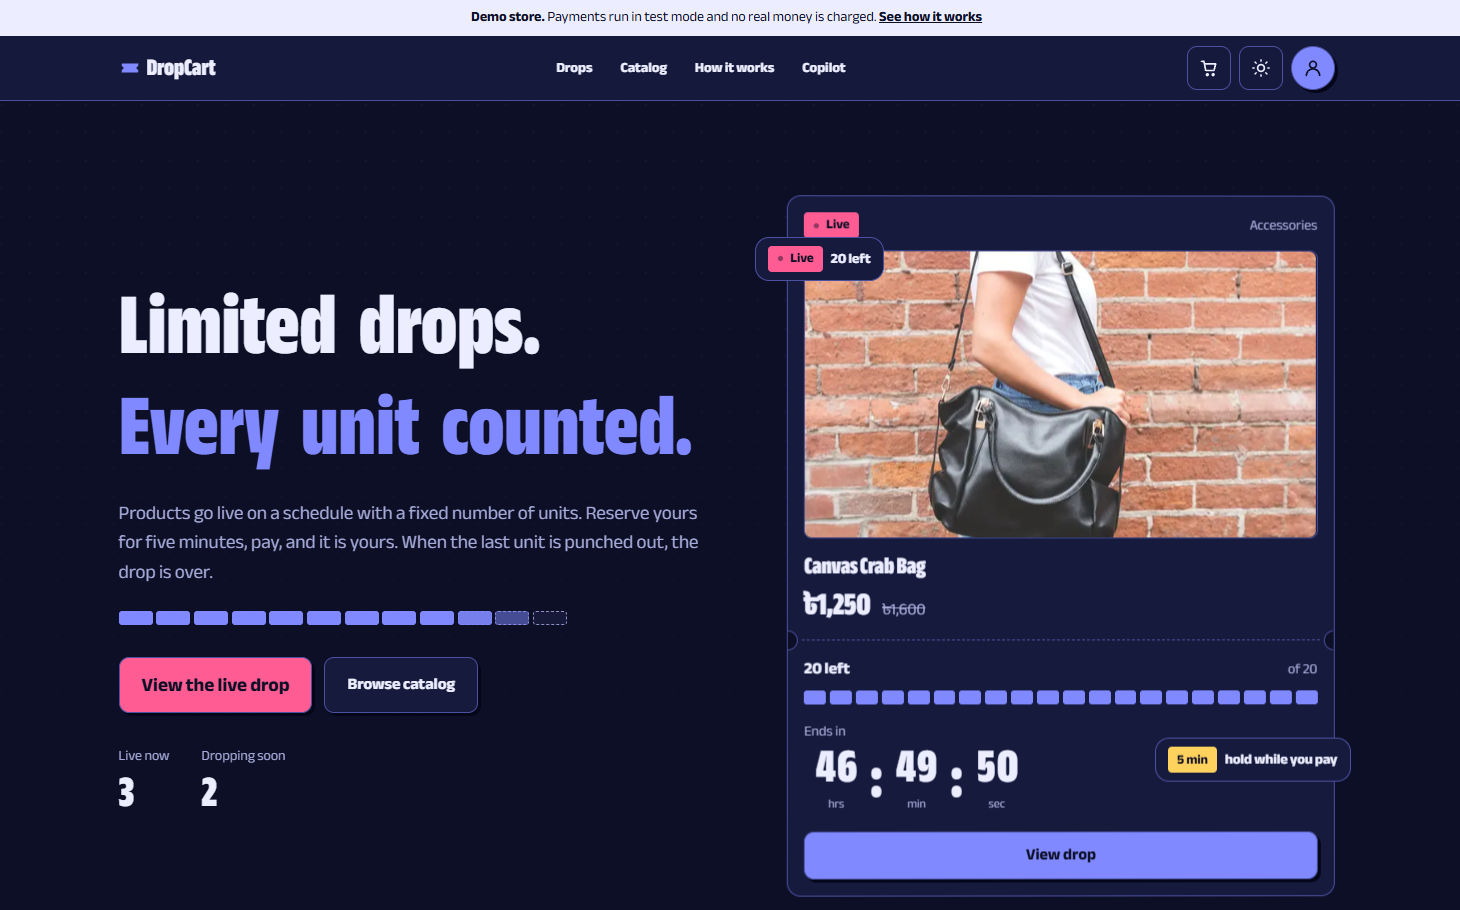
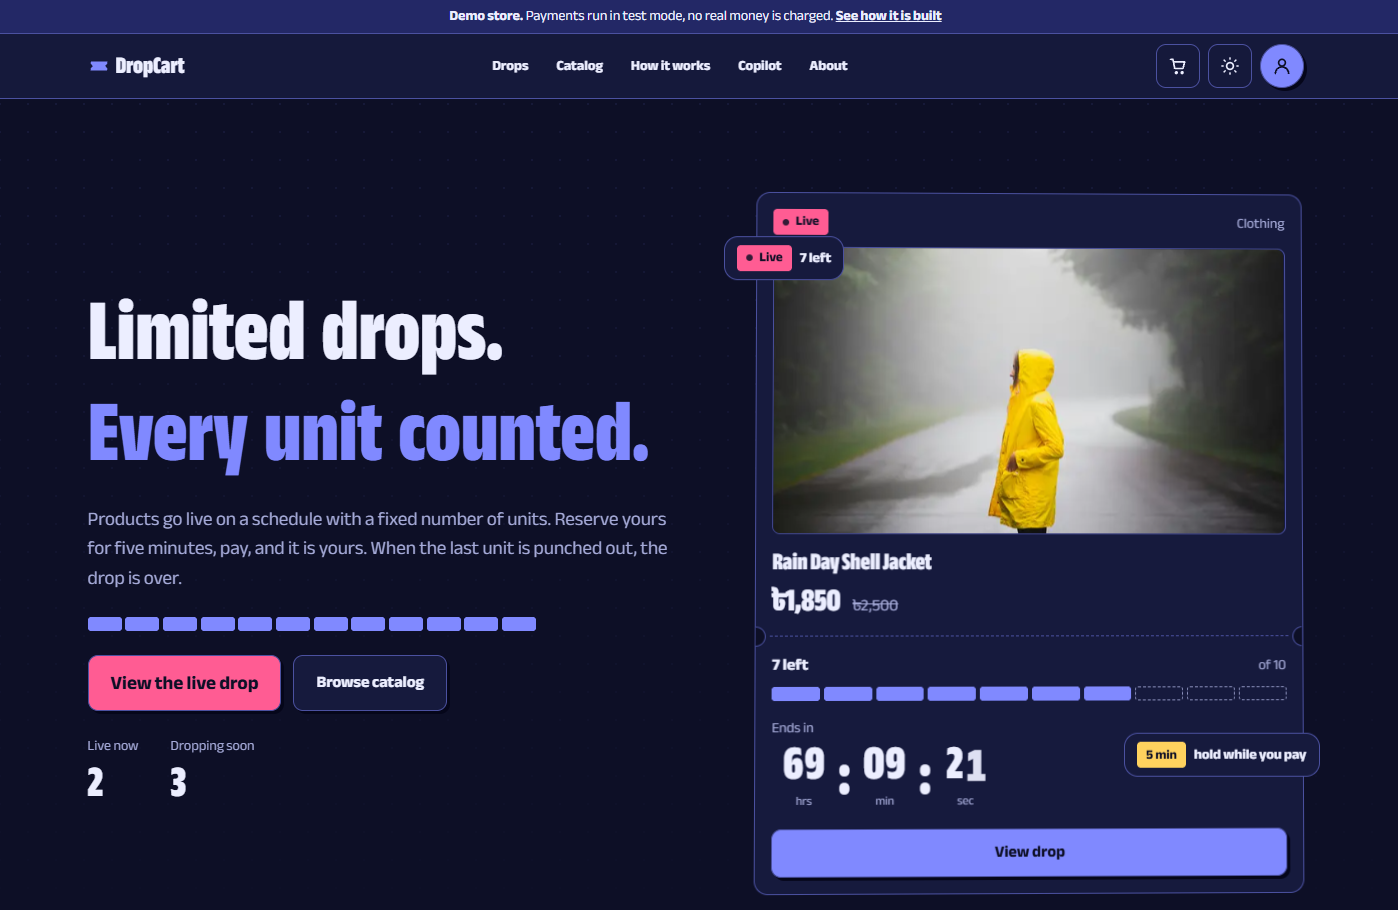
docs: update README with detailed usage instructions and highlights

diff --git a/README.md b/README.md
@@ -1,27 +1,45 @@
 # DropCart
 
-The web app for **DropCart**, a limited-drop store where products go on sale in scheduled, stock-limited drops. Each unit is counted, held for five minutes while you pay, and released back to the drop if you do not.
-
 ![CI](https://github.com/tawchifulislam/dropcart-client/actions/workflows/ci.yml/badge.svg)
 
-- Live demo: <https://dropcart-client.vercel.app>
-- API repository: [dropcart-server](https://github.com/tawchifulislam/dropcart-server)
+**A limited-drop store where every unit is counted.** Products go on sale in scheduled drops with a fixed number of units. Reserve one while the drop is live, pay within five minutes, and if you do not, the unit goes back to the drop for the next person.
+
+- **Live demo:** <https://dropcart-client.vercel.app> (no sign-up needed, choose "Continue as a guest")
+- **API repository:** [dropcart-server](https://github.com/tawchifulislam/dropcart-server), with the concurrency design, test results and architecture notes
+- **How it is built, in the app:** <https://dropcart-client.vercel.app/about>
 
 ![DropCart: live drops with stock cells and hold timers](public/docs/dropcart.png)
 
-## What you can do
+> The demo runs on free hosting. If the first load is slow, the API was asleep and needs about a minute to wake up.
 
-- Browse the catalog at any time, and see live and upcoming drops with real-time stock and countdowns.
-- Reserve a unit while a drop is live, then pay before the hold timer runs out.
-- Ask the **Copilot** for products within a budget. It searches the real catalog and fills your cart.
-- Follow your reservations and receipts from your account page.
-- As an admin, manage your own products and drops and watch live stock and revenue.
+## Try it in 60 seconds
+
+1. Open the demo and choose **Continue as a guest**. A temporary account is created and deleted after a day.
+2. Open a **live drop** and press **Reserve**. One unit is taken from the stock and held for five minutes while a timer runs.
+3. Press **Pay** and use the test card `4242 4242 4242 4242`, any future date, any CVC. No real money is charged.
+4. Open the **Copilot** and ask for a gift under 2000 taka. Then ask for something that does not exist and watch it say so.
+5. Open **My account** to see your reservation history and receipt.
+
+The admin dashboard needs a privileged account, so it is shown in the screenshots rather than opened to the public. Credentials for a limited admin account can be shared on request.
+
+## Highlights
+
+- **A UI built around one idea:** a torn ticket. Drops are tickets, units are cells that punch out, buttons press down like stamps. It is a custom design system, not a component kit.
+- **Live, honest numbers.** Stock and timers update while you watch. Hold timers use the remaining time sent by the server, so a wrong device clock does not matter.
+- **A route map** on `/how-it-works` that draws itself as you scroll and shows what happens to a unit from schedule to receipt.
+- **An AI copilot** that searches the real catalog, shows product cards from database data and adds items to your cart. It never invents a product.
+- **Admin dashboard** with live stock, a revenue chart, product and drop management, and role management. Admins only see their own data.
+- **Production details:** light and dark themes without a flash, skeletons, error and 404 pages, a styled confirmation dialog, toasts for minor confirmations, social preview image and favicon, sitemap and structured data.
 
 ## Screens
+
+<details>
+<summary><strong>All routes</strong></summary>
 
 | Route | Description |
 | --- | --- |
 | `/` | Landing page: animated hero, ticker, live drops, how it works, copilot, categories, FAQ |
+| `/about` | Case study: architecture, engineering decisions, how it is verified |
 | `/drops`, `/drops/[id]` | Live and upcoming drops, drop page with live stock, hold timer and Reserve |
 | `/products`, `/products/[slug]` | Catalog with live search, filters, pagination, product detail |
 | `/how-it-works` | Animated route map of a unit, and FAQ |
@@ -32,16 +50,16 @@ The web app for **DropCart**, a limited-drop store where products go on sale in 
 | `/admin` | Dashboard with live stock and a revenue chart |
 | `/admin/products`, `/admin/drops` | Product and drop management |
 | `/admin/users` | Role management (superadmin only) |
-| `/login`, `/register` | Authentication |
+| `/login`, `/register` | Authentication, with guest access in demo mode |
+
+</details>
 
 ## Design system
 
-The look is built around one idea: a torn ticket. Every drop is a ticket, every unit is a cell, and a purchase punches one out.
-
 - **Tokens.** All colors, radii, shadows and motion live as CSS variables in `src/app/globals.css` and are exposed to Tailwind through `@theme`. Light and dark themes swap the variables, so components never hard-code a color.
 - **Motifs.** Perforated dividers with half-circle notches (`.ticket`), stock cells that punch out (`.cells`), hard offset shadows that collapse on press (`.btn`), a stamped "Sold out" badge.
-- **Type.** One variable family (Anek Bangla, Latin glyphs) used in a narrow, heavy cut for display text and a regular cut for body copy.
-- **Theming.** The theme is set before first paint from `localStorage` or the system preference, so there is no flash. A toggle sits in the header.
+- **Type.** One variable family (Anek Bangla, Latin glyphs) in a narrow, heavy cut for display text and a regular cut for body copy.
+- **Theming.** The theme is set before first paint from `localStorage` or the system preference, so there is no flash.
 - **Motion.** Framer Motion for scroll reveals, the route map and the hero. Everything respects `prefers-reduced-motion`.
 
 ## Architecture
@@ -54,14 +72,15 @@ flowchart LR
   Web -->|server components fetch| API
 ```
 
-- **Server components** fetch public data (catalog, drops) directly from the API with `cache: "no-store"` because drop status depends on the clock.
-- **Client components** call `/api/*`. A rewrite in `next.config.ts` forwards that path to the API, so the session cookie belongs to the web app's own domain. No CORS and no third-party cookie issues.
+- **Server components** fetch public data (catalog, drops) directly from the API with `cache: "no-store"`, because drop status depends on the clock.
+- **Client components** call `/api/*`. A rewrite in `next.config.ts` forwards that path to the API, so the session cookie belongs to the web app's own domain. No CORS and no third-party cookie problems.
 - **Auth state** lives in `AuthProvider`. Admin pages check the role in the UI for convenience, and the API enforces it again on every request.
-- **Live data** (stock, hold timers) is polled every few seconds while the tab is visible. Timers use the remaining time sent by the server, so a wrong device clock does not matter.
+- **Live data** (stock, hold timers) is polled every few seconds while the tab is visible.
+- **Security headers** (`nosniff`, frame denial, referrer and permissions policies) are set in `next.config.ts`.
 
 ## Tech stack
 
-Next.js 16 (App Router), React 19, TypeScript, Tailwind CSS 4, Framer Motion, Recharts.
+Next.js 16 (App Router), React 19, TypeScript, Tailwind CSS 4, Framer Motion, Recharts. Deployed on Vercel, with GitHub Actions running lint, type check and a production build on every push.
 
 ## Getting started
 
@@ -77,16 +96,20 @@ npm run dev
 
 Open <http://localhost:3000>.
 
-## Environment variables
+<details>
+<summary><strong>Environment variables</strong></summary>
 
 | Name | Required | Description |
 | --- | --- | --- |
 | `API_URL` | yes | Base URL of the API, without a trailing slash. Read at build time for the `/api/*` rewrite, so changing it needs a redeploy |
 | `NEXT_PUBLIC_SITE_URL` | recommended | Public URL of this site, used for metadata, the sitemap and structured data |
-| `NEXT_PUBLIC_DEMO_MODE` | no | `true` shows a demo banner and the test-card hint at checkout |
-| `NEXT_PUBLIC_REPO_URL`, `NEXT_PUBLIC_API_REPO_URL` | no | Source links shown in the footer |
+| `NEXT_PUBLIC_DEMO_MODE` | no | `true` shows the demo banner, the test-card hint and the guest sign-in option |
+| `NEXT_PUBLIC_REPO_URL`, `NEXT_PUBLIC_API_REPO_URL` | no | Source links shown in the footer and on `/about` |
 
-## Scripts
+</details>
+
+<details>
+<summary><strong>Scripts and project structure</strong></summary>
 
 | Command | What it does |
 | --- | --- |
@@ -95,8 +118,6 @@ Open <http://localhost:3000>.
 | `npm run lint` | ESLint |
 | `npx tsc --noEmit` | Type check |
 
-## Project structure
-
 ```text
 src/
   app/            routes, layouts, metadata, icons and the social preview image
@@ -104,7 +125,10 @@ src/
   lib/            API clients, formatting, shared types, navigation, FAQ content
 public/
   products/       product photos
+  docs/           README images
 ```
+
+</details>
 
 ## Deployment
 
@@ -121,12 +145,16 @@ Every push to `main` deploys automatically.
 - Semantic landmarks, a skip link, and visible focus rings.
 - Timers expose their value through `role="timer"`. Stock cells have text alternatives.
 - Forms have labels, inline errors and `aria-invalid` and `aria-describedby`.
-- Status changes use polite live regions. Toasts are used for minor confirmations only. Errors that need action stay on the page.
+- The confirmation dialog uses the native `<dialog>` element, which traps focus and closes on Escape.
+- Status changes use polite live regions. Toasts are used for minor confirmations only, and errors that need action stay on the page.
 - Motion is reduced when the user prefers it.
 
-## Known limitations
+An automated audit (Lighthouse and axe) is on the list of next steps, so no scores are claimed here.
+
+## Known limitations and next steps
 
 - The free API host sleeps when idle, so the first request after a quiet period can be slow.
 - Product images are URLs or files in `public/products`. There is no upload flow yet.
 - Stock and timers are polled, not pushed. Server-sent events would be the next step for very large audiences.
-- The interface is English only.
+- The interface is English only. Prices are in Bangladeshi taka and times are shown in Dhaka time (GMT+6).
+- There are no component or end-to-end tests yet. Playwright for the reservation and checkout path is the natural next step.
